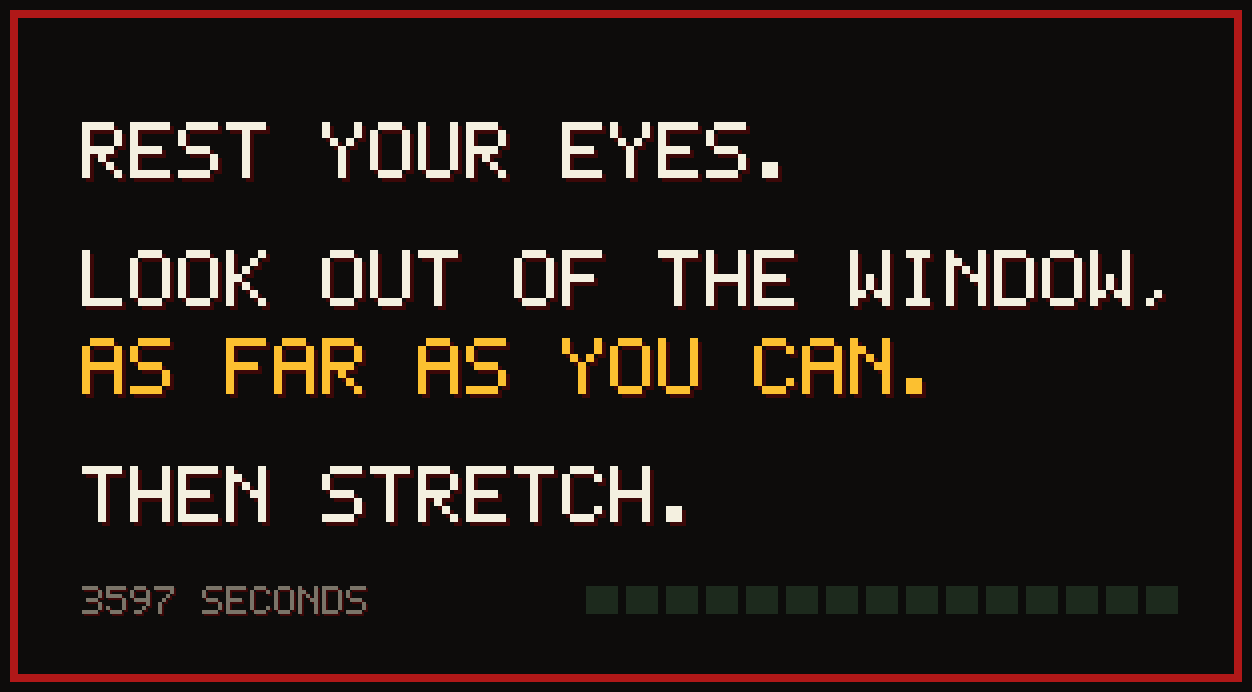
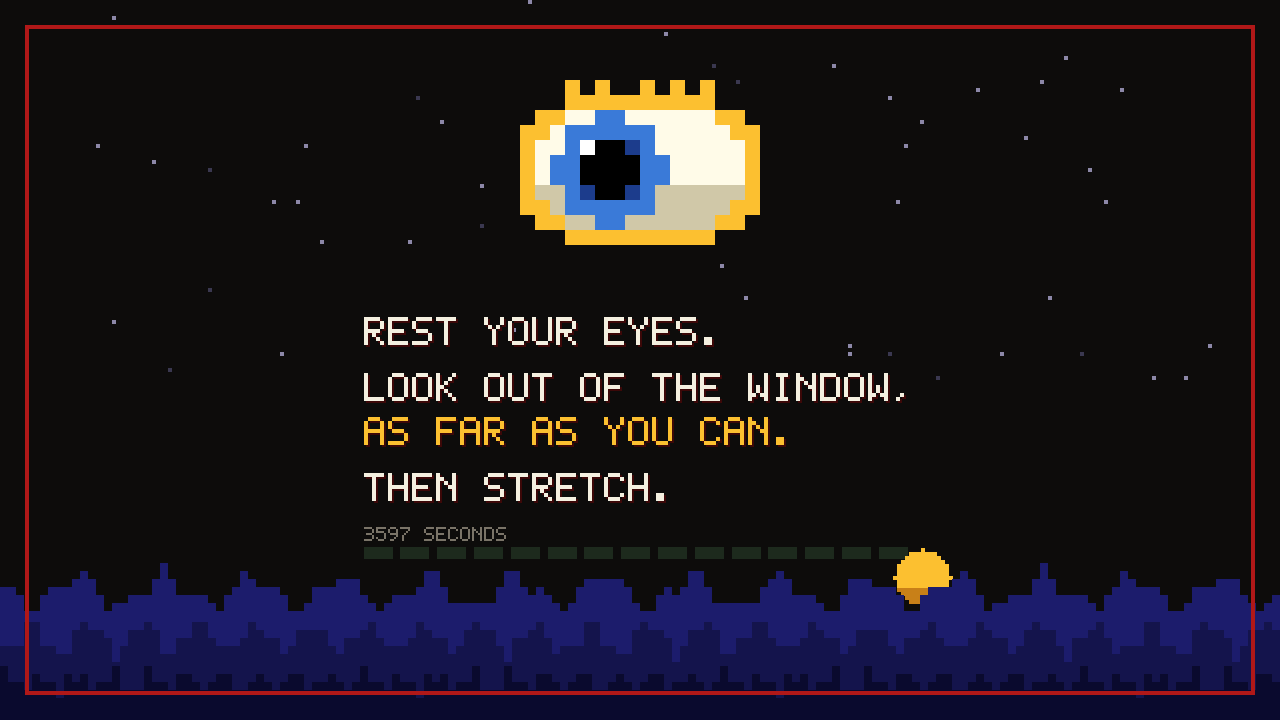
linux: the rest scene of Windows and Android on the break screen
The big pixel eye that looks around and blinks, stars, the words, the seconds and the
15-segment bar, a far sun and a drifting horizon of three ridges, the red frame; drawn
in one canvas on the primary monitor ten times a second (drawScene, drawEye in
pixelfont.js), the other monitors plain black. Tests read what the last frame showed.

make -C linux test-all: 31 unit tests pass, headless: all passed.

Claude-Session: https://claude.ai/code/session_01M9743BZwvHyEHCuZVKxu5F

diff --git a/linux/blackbreak@junkers4.github.io/overlay.js b/linux/blackbreak@junkers4.github.io/overlay.js
@@ -7,23 +7,18 @@ import * as Main from 'resource:///org/gnome/shell/ui/main.js';
 import {FAILSAFE_MS} from './scheduler.js';
 
 import {LINES, seconds} from './copy.js';
-import {PAL, PixelText, ROWS, LEADING, rect} from './pixel.js';
+import {PAL, drawScene, rect} from './pixel.js';
 
-// The break screen is a 320 x 180 picture, scaled by a whole number and
-// centred on the primary monitor.
-const W = 320, H = 180, SEGMENTS = 15;
-const TEXT_PX = 2;
-
-// The break screen: warm black over the whole stage, a red pixel frame with
-// the words, the seconds left and a segmented bar, with a modal grab.
+// The break screen: warm black over the whole stage and, on the primary monitor, the rest
+// scene (the eye that looks around and blinks, the words, the seconds and a segmented bar,
+// a drifting horizon, a red frame), redrawn ten times a second, with a modal grab.
 export class Overlay {
     show(endsAtMs) {
         if (this._widget || Main.sessionMode.isLocked)
             return;
         this._endsAt = endsAtMs;
         this._total = Math.max(1, endsAtMs - Date.now());
-        this._f = 1;
-        this._ox = this._oy = 0;
+        this._startedAt = Date.now();
         this._left = 0;
         // Armed first, so nothing below can leave the screen black.
         this._failsafeId = GLib.timeout_add(GLib.PRIORITY_HIGH, FAILSAFE_MS, () => {
@@ -36,7 +31,9 @@ export class Overlay {
             reactive: true,
             can_focus: true,
         });
-        this._buildText();
+        this._canvas = new St.DrawingArea();
+        this._canvas.connect('repaint', () => this._paint());
+        this._widget.add_child(this._canvas);
         Main.layoutManager.addTopChrome(this._widget);
         this._monitorsId = Main.layoutManager.connect('monitors-changed',
             () => this._resize());
@@ -50,7 +47,9 @@ export class Overlay {
             GLib.source_remove(this._failsafeId);
         if (this._tickId)
             GLib.source_remove(this._tickId);
-        this._failsafeId = this._tickId = 0;
+        if (this._frameId)
+            GLib.source_remove(this._frameId);
+        this._failsafeId = this._tickId = this._frameId = 0;
         if (this._monitorsId)
             Main.layoutManager.disconnect(this._monitorsId);
         this._monitorsId = 0;
@@ -62,27 +61,11 @@ export class Overlay {
         }
         this._grab = null;
         this._widget?.destroy();
-        this._widget = this._text = this._countdown = this._canvas = this._lines = null;
+        this._widget = this._canvas = this._drawn = null;
     }
 
     destroy() {
         this.hide();
-    }
-
-    _buildText() {
-        this._canvas = new St.DrawingArea();
-        this._canvas.connect('repaint', () => this._paint());
-        this._widget.add_child(this._canvas);
-        this._text = new St.Widget();
-        this._lines = LINES.map(([plain, accent]) => {
-            const line = new PixelText(TEXT_PX, PAL.white, accent);
-            line.text = plain;
-            this._text.add_child(line);
-            return line;
-        });
-        this._countdown = new PixelText(1, PAL.dim);
-        this._widget.add_child(this._text);
-        this._widget.add_child(this._countdown);
     }
 
     _resize() {
@@ -90,22 +73,6 @@ export class Overlay {
         this._widget.set_size(global.stage.width, global.stage.height);
         this._canvas.set_position(0, 0);
         this._canvas.set_size(global.stage.width, global.stage.height);
-        const m = Main.layoutManager.primaryMonitor;
-        if (!m)
-            return;
-        const f = Math.max(1, Math.floor(Math.min(m.width / W, m.height / H)));
-        this._f = f;
-        this._ox = m.x + Math.floor((m.width - W * f) / 2);
-        this._oy = m.y + Math.floor((m.height - H * f) / 2);
-        let y = 30;
-        this._text.set_position(this._ox, this._oy);
-        this._lines.forEach((line, i) => {
-            line.setPx(TEXT_PX * f);
-            line.set_position(24 * f, y * f);
-            y += (LINES[i][1] ? LEADING + ROWS : ROWS) * TEXT_PX + 14;
-        });
-        this._countdown.setPx(f);
-        this._countdown.set_position(this._ox + 24 * f, this._oy + 148 * f);
         this._canvas.queue_repaint();
     }
 
@@ -113,17 +80,14 @@ export class Overlay {
         const cr = this._canvas.get_context();
         cr.setAntialias(Cairo.Antialias.NONE);
         rect(cr, PAL.bg, 0, 0, global.stage.width, global.stage.height);
-        const f = this._f, ox = this._ox, oy = this._oy;
-        const u = n => n * f;
-        rect(cr, PAL.red, ox + u(6), oy + u(6), u(W - 12), u(2));
-        rect(cr, PAL.red, ox + u(6), oy + u(H - 8), u(W - 12), u(2));
-        rect(cr, PAL.red, ox + u(6), oy + u(6), u(2), u(H - 12));
-        rect(cr, PAL.red, ox + u(W - 8), oy + u(6), u(2), u(H - 12));
-        // one segment per two seconds of a 30 s break, filling as the break passes
-        const done = Math.min(1, Math.max(0, 1 - (this._endsAt - Date.now()) / this._total));
-        const lit = Math.round(done * SEGMENTS);
-        for (let i = 0; i < SEGMENTS; i++)
-            rect(cr, i < lit ? PAL.green : '#1d2a1d', ox + u(150 + i * 10), oy + u(150), u(8), u(7));
+        const m = Main.layoutManager.primaryMonitor;
+        if (m) {
+            const done = Math.min(1, Math.max(0, 1 - (this._endsAt - Date.now()) / this._total));
+            drawScene(cr, m.x, m.y, m.width, m.height, (Date.now() - this._startedAt) / 1000,
+                LINES, seconds(this._left), done);
+            // what the last frame showed, for the headless tests
+            this._drawn = {lines: LINES.length, seconds: seconds(this._left)};
+        }
         cr.$dispose();
     }
 
@@ -135,8 +99,12 @@ export class Overlay {
             return;
         }
         this._left = Math.ceil(left / 1000);
-        this._countdown.text = seconds(this._left);
         this._canvas.queue_repaint();
+        // the scene moves: redrawn ten times a second
+        this._frameId ||= GLib.timeout_add(GLib.PRIORITY_DEFAULT, 100, () => {
+            this._canvas?.queue_repaint();
+            return GLib.SOURCE_CONTINUE;
+        });
         this._tickId = GLib.timeout_add(GLib.PRIORITY_HIGH, left % 1000 || 1000, () => {
             this._tickId = 0;
             this._updateCountdown();

diff --git a/linux/blackbreak@junkers4.github.io/pixelfont.js b/linux/blackbreak@junkers4.github.io/pixelfont.js
@@ -162,3 +162,123 @@ export function drawIcon(cr, x, y, f) {
                 rect(cr, ICON_PAL[row[c]], x + c * f, y + r * f, f, f);
     });
 }
+
+// The eye (16 x 16 cells) with a moving pupil (gx, gy in cells), or closed for a blink.
+export function drawEye(cr, x, y, f, gx, gy, blink) {
+    if (blink) {
+        for (let c = 1; c < 15; c++)
+            rect(cr, ICON_PAL.Y, x + c * f, y + 7 * f, f, 2 * f);
+        for (const c of [3, 5, 8, 10, 12])
+            rect(cr, ICON_PAL.Y, x + c * f, y + 9 * f, f, f);
+        return;
+    }
+    const iris = k => 'IiPH'.includes(k);
+    ICON.forEach((row, r) => {
+        for (let c = 0; c < 16; c++) {
+            let k = row[c];
+            if (k === '.')
+                continue;
+            if (iris(k))
+                k = r <= 8 ? 'W' : 'w';
+            rect(cr, ICON_PAL[k], x + c * f, y + r * f, f, f);
+        }
+    });
+    ICON.forEach((row, r) => {
+        for (let c = 0; c < 16; c++) {
+            const k = row[c];
+            if (!iris(k))
+                continue;
+            const tc = c + gx, tr = r + gy;
+            if (tc < 0 || tc > 15 || tr < 0 || tr > 15)
+                continue;
+            const under = ICON[tr][tc];
+            if (under === '.' || under === 'Y')
+                continue;
+            rect(cr, ICON_PAL[k], x + tc * f, y + tr * f, f, f);
+        }
+    });
+}
+
+// 0..1 triangle wave of u
+const tri = u => Math.abs(2 * (u - Math.floor(u)) - 1);
+
+function ridge(cr, x0, w, h, cell, scroll, period, amp, base, color) {
+    const cols = Math.floor(w / cell) + 2;
+    for (let i = 0; i < cols; i++) {
+        const u = (i + scroll) / period;
+        const top = base - Math.round((tri(u) + 0.5 * tri(u * 2.3 + 0.4)) * amp / cell) * cell;
+        rect(cr, color, x0 + i * cell, top, Math.min(cell, x0 + w - (x0 + i * cell)), h - top);
+    }
+}
+
+const STARS = (() => {
+    // a fixed sky: the same stars on every break (a small LCG, seeded)
+    let s = 20;
+    const next = n => {
+        s = (s * 1103515245 + 12345) % 2147483648;
+        return s % n;
+    };
+    return Array.from({length: 48}, () => [next(1000), next(560)]);
+})();
+
+// The whole rest scene in the w x h box at (x0, y0), t seconds into the break: stars, the eye
+// looking around, the words, the seconds and a 15-segment bar, a far sun and a drifting
+// horizon, a red frame. The same scene as on Windows and Android.
+export function drawScene(cr, x0, y0, w, h, t, lines, secondsText, done) {
+    rect(cr, PAL.bg, x0, y0, w, h);
+    let longest = 1;
+    for (const [plain, accent] of lines)
+        longest = Math.max(longest, plain.trim().length, accent.length);
+    const px = Math.max(2, Math.min(Math.floor(h / 170), Math.floor(w * 0.8 / (longest * CELL))));
+    const cell = px * 2;
+
+    STARS.forEach(([sx, sy], i) => {
+        const on = (Math.floor(t * 1.5) + i) % 5 !== 0;
+        rect(cr, on ? '#8c88a8' : '#3a3850', x0 + Math.floor(sx * w / 1000 / cell) * cell,
+            y0 + Math.floor(sy / 1000 * h / cell) * cell, cell / 2, cell / 2);
+    });
+
+    // the eye looks far to each side, up and down, and blinks
+    const gaze = [[0, 0], [-2, 0], [2, 0], [0, -1], [0, 1], [0, 0]];
+    const [gx, gy] = gaze[Math.floor(t / 2) % gaze.length];
+    const pe = Math.max(4, Math.floor(h / 48));
+    drawEye(cr, x0 + Math.floor((w - 16 * pe) / 2), y0 + Math.floor(h * 0.07), pe, gx, gy, t % 4.2 < 0.22);
+
+    // the words, as one block centred on the screen
+    const blockW = longest * CELL * px;
+    const left = x0 + Math.max(px * 4, Math.floor((w - blockW) / 2));
+    let y = y0 + Math.floor(h * 0.43);
+    for (const [plain, accent] of lines) {
+        drawText(cr, plain.trim(), left, y, px, PAL.white);
+        if (accent)
+            drawText(cr, accent, left, y + LEADING * px, px, PAL.gold);
+        y += ((accent ? LEADING + ROWS : ROWS) + 5) * px;
+    }
+
+    // the seconds and a 15-segment bar
+    const segments = 15;
+    const barY = Math.max(y + px * 3, y0 + Math.floor(h * 0.76));
+    const small = Math.max(2, Math.floor(px / 2));
+    drawText(cr, secondsText, left, barY - 12 * small, small, PAL.dim, null);
+    const seg = blockW / segments;
+    const lit = Math.round(done * segments);
+    for (let i = 0; i < segments; i++)
+        rect(cr, i < lit ? PAL.green : '#1d2a1d', left + Math.floor(i * seg), barY, Math.floor(seg * 0.8), px * 3);
+
+    // a far sun and a horizon that drifts
+    const r = 7, sunX = x0 + Math.floor(w * 0.72), sunY = y0 + Math.floor(h * 0.80);
+    for (let dy = -r; dy <= r; dy++)
+        for (let dx = -r; dx <= r; dx++)
+            if (dx * dx + dy * dy <= r * r)
+                rect(cr, dy > 2 ? '#c88018' : PAL.gold, sunX + dx * cell / 2, sunY + dy * cell / 2, cell / 2, cell / 2);
+    ridge(cr, x0, w, y0 + h, cell, t * 0.6, 11, h * 0.05, y0 + Math.floor(h * 0.86), '#1c1c6c');
+    ridge(cr, x0, w, y0 + h, cell, t * 1.1 + 7, 7, h * 0.045, y0 + Math.floor(h * 0.92), '#14144c');
+    ridge(cr, x0, w, y0 + h, cell, t * 1.8 + 3, 4.5, h * 0.03, y0 + Math.floor(h * 0.97), '#0a0a2e');
+
+    // the frame, over everything
+    const frame = Math.max(2, px), inset = Math.floor(w * 2 / 100);
+    rect(cr, PAL.red, x0 + inset, y0 + inset, w - 2 * inset, frame);
+    rect(cr, PAL.red, x0 + inset, y0 + h - inset - frame, w - 2 * inset, frame);
+    rect(cr, PAL.red, x0 + inset, y0 + inset, frame, h - 2 * inset);
+    rect(cr, PAL.red, x0 + w - inset - frame, y0 + inset, frame, h - 2 * inset);
+}

diff --git a/linux/test/manual-checklist.md b/linux/test/manual-checklist.md
@@ -5,7 +5,7 @@ Fast runs: start a nested or headless shell with `BLACKBREAK_DEBUG_FAST=1`
 
 ## Break screen
 - [ ] The break covers every monitor and the top bar; solid black.
-- [ ] A red pixel frame with three white pixel-font lines (the middle one with a gold second row), the seconds left in grey bottom left and a 15-segment bar that fills over the break.
+- [ ] On the primary monitor: stars, the big pixel eye that looks left, right, up and down and blinks, three white pixel-font lines (the middle one with a gold second row), the seconds left in grey and a 15-segment bar that fills, a far sun and a drifting horizon of three ridges, a red pixel frame. The other monitors are plain black.
 - [ ] The break ends after 30 s.
 
 ## No input
